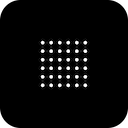
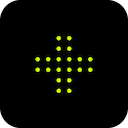
changes name & theme colors

Changed region(s): [[0.25, 0.25, 0.75, 0.75]]

diff --git a/main/styles/css-constants.js b/main/styles/css-constants.js
@@ -1,9 +1,15 @@
-import { BG_RGB, FG_RGB, PRIMARY_COLOR_HEX, SELECTION_COLOR_HEX } from '../../config.js';
+import { BG_RGB, FG_RGB, PRIMARY_COLOR_HEX, PRIMARY_COLOR_RGB, SELECTION_COLOR_HEX } from '../../config.js';
 
 export const selectionActionButtonsCSS = `
 
+  .selection-ai-buttons {
+    transition: all 0.2s ease;
+    opacity: 0;
+    filter: blur(20px);
+  }
+
   .selection-ai-buttons.visible {
-    opacity: 1;
+    opacity: 0.5;
     filter: blur(0px);
   }
   
@@ -32,8 +38,13 @@ export const selectionActionButtonsCSS = `
   }
   
   .selection-ai-button:hover {
-    background: rgba(${FG_RGB}, 0.1);
-    color: rgba(${FG_RGB}, 1);
+    background: rgba(${PRIMARY_COLOR_RGB}, 0.2);
+    color: rgba(${PRIMARY_COLOR_RGB}, 1);
+  }
+
+  .selection-ai-button:active {
+    background: rgba(${PRIMARY_COLOR_RGB}, 0.4);
+    color: rgba(${PRIMARY_COLOR_RGB}, 1);
   }
   
   .selection-ai-button svg {
@@ -141,8 +152,8 @@ export const modeSwitcherRootCSS = `
   }
   
   .mode-btn.active {
-    background: rgba(${FG_RGB}, 1);
-    color: rgba(${BG_RGB}, 1);
+    background: rgba(${PRIMARY_COLOR_RGB}, 0.2);
+    color: rgba(${PRIMARY_COLOR_RGB}, 1);
   }
   
   .mode-btn:hover:not(.active) {
@@ -166,7 +177,7 @@ export const modeSwitcherRootCSS = `
   /* Tooltip styles */
   .mode-tooltip {
     position: absolute;
-    bottom: calc(100% + 20px);
+    bottom: calc(100% + 10px);
     left: 50%;
     transform: translateX(-50%);
     margin-bottom: 8px;
@@ -179,10 +190,10 @@ export const modeSwitcherRootCSS = `
     opacity: 0;
     filter: blur(20px);
     visibility: hidden;
-    transition: all 0.3s ease;
+    transition: all 0.418s ease;
     pointer-events: none;
     z-index: 10001;
-    width: 150px;
+    width: 250px;
     white-space: normal;
     text-align: left;
   }
@@ -214,7 +225,7 @@ export const modeSwitcherRootCSS = `
     font-style: italic;
   }
 
-  /* Tooltip arrow */
+  /* Tooltip arrow 
   .mode-tooltip::after {
     content: '';
     position: absolute;
@@ -228,6 +239,7 @@ export const modeSwitcherRootCSS = `
     width: 12px;
     transform: rotate(45deg);
   }
+    */
 `;
 
 export const cursorCSS = `

diff --git a/utils/animations.js b/utils/animations.js
@@ -95,13 +95,15 @@ export function createPulsingShape(element, size = 40, shape = 'grid', autoStart
     let animationDuration = 2000;
     let animationId = null;
 
+    const transparentDots = [0, 1, 4, 5, 6, 7, 10, 11, 24, 25, 28, 29, 30, 31, 34, 35];
+
     function drawStaticFrame() {
         ctx.clearRect(0, 0, size, size);
 
-        dots.forEach(dot => {
+        dots.forEach((dot, i) => {
             ctx.beginPath();
             ctx.arc(dot.x, dot.y, baseDotSize, 0, Math.PI * 2);
-            ctx.fillStyle = `rgba(${PRIMARY_COLOR_RGB}, 1)`;
+            ctx.fillStyle = transparentDots.includes(i) ? `rgba(${PRIMARY_COLOR_RGB}, 0.2)` : `rgba(${PRIMARY_COLOR_RGB}, 1)`;
             ctx.fill();
         });
     }
@@ -125,14 +127,16 @@ export function createPulsingShape(element, size = 40, shape = 'grid', autoStart
 
         ctx.clearRect(0, 0, size, size);
 
-        dots.forEach(dot => {
+        dots.forEach((dot, i) => {
             // Create a wave-like offset for each dot based on distance from center
             const delay = dot.distanceFromCenter * 0.15;
 
             const pulse =
                 Math.sin((time - delay) * Math.PI * pulseFrequency) * 0.5 + 0.5;
             const radius = baseDotSize + pulse * pulseAmplitude;
-            const opacity = 0.5 + pulse * 0.5;
+            // const opacity = 0.5 + pulse * 0.5;
+
+            const opacity = transparentDots.includes(i) ? 0.2 : 0.5 + pulse * 0.5;
 
             ctx.beginPath();
             ctx.arc(dot.x, dot.y, radius, 0, Math.PI * 2);

diff --git a/config.js b/config.js
@@ -8,10 +8,22 @@
 
 export const DARK_MODE = true;
 
+// --- salt & pepper ---
+
+// export const BG_RGB = DARK_MODE ? "0, 0, 0" : "255, 255, 255";
+// export const FG_RGB = DARK_MODE ? "255, 255, 255" : "0, 0, 0";
+
+// export const PRIMARY_COLOR_HEX = DARK_MODE ? "#ffffff" : "#000000";
+// export const PRIMARY_COLOR_RGB = DARK_MODE ? "255, 255, 255" : "0, 0, 0";
+
+// export const SELECTION_COLOR_HEX = "#fed002";
+
+// --- lumo dark + intense blue light ---
+
 export const BG_RGB = DARK_MODE ? "0, 0, 0" : "255, 255, 255";
 export const FG_RGB = DARK_MODE ? "255, 255, 255" : "0, 0, 0";
 
-export const PRIMARY_COLOR_HEX = DARK_MODE ? "#ffffff" : "#000000";
-export const PRIMARY_COLOR_RGB = DARK_MODE ? "255, 255, 255" : "0, 0, 0";
+export const PRIMARY_COLOR_HEX = DARK_MODE ? "#cdff03" : "#2400ff";
+export const PRIMARY_COLOR_RGB = DARK_MODE ? "205, 255, 3" : "36, 0, 255";
 
-export const SELECTION_COLOR_HEX = "#fed002";
+export const SELECTION_COLOR_HEX = DARK_MODE ? "#cdff03" : "#2400ff";

diff --git a/styles.css b/styles.css
@@ -20,6 +20,17 @@
   animation: slideInRight 0.3s ease-out;
 }
 
+.selection-ai-buttons {
+  transition: all 0.2s ease;
+  opacity: 0;
+  filter: blur(20px);
+}
+
+.selection-ai-buttons.visible {
+  opacity: 1;
+  filter: blur(0px);
+}
+
 @keyframes slideInRight {
   from {
     opacity: 0;

diff --git a/popover/styles/css-constants.js b/popover/styles/css-constants.js
@@ -244,7 +244,7 @@ button, .action-btn, .copy-color-btn {
 .context-text .context-icon svg {
     width: 20px;
     height: 20px;
-    stroke: rgba(${FG_RGB}, 1);
+    stroke: rgba(${PRIMARY_COLOR_RGB}, 1);
 }
 
 .context-text .context-content {
